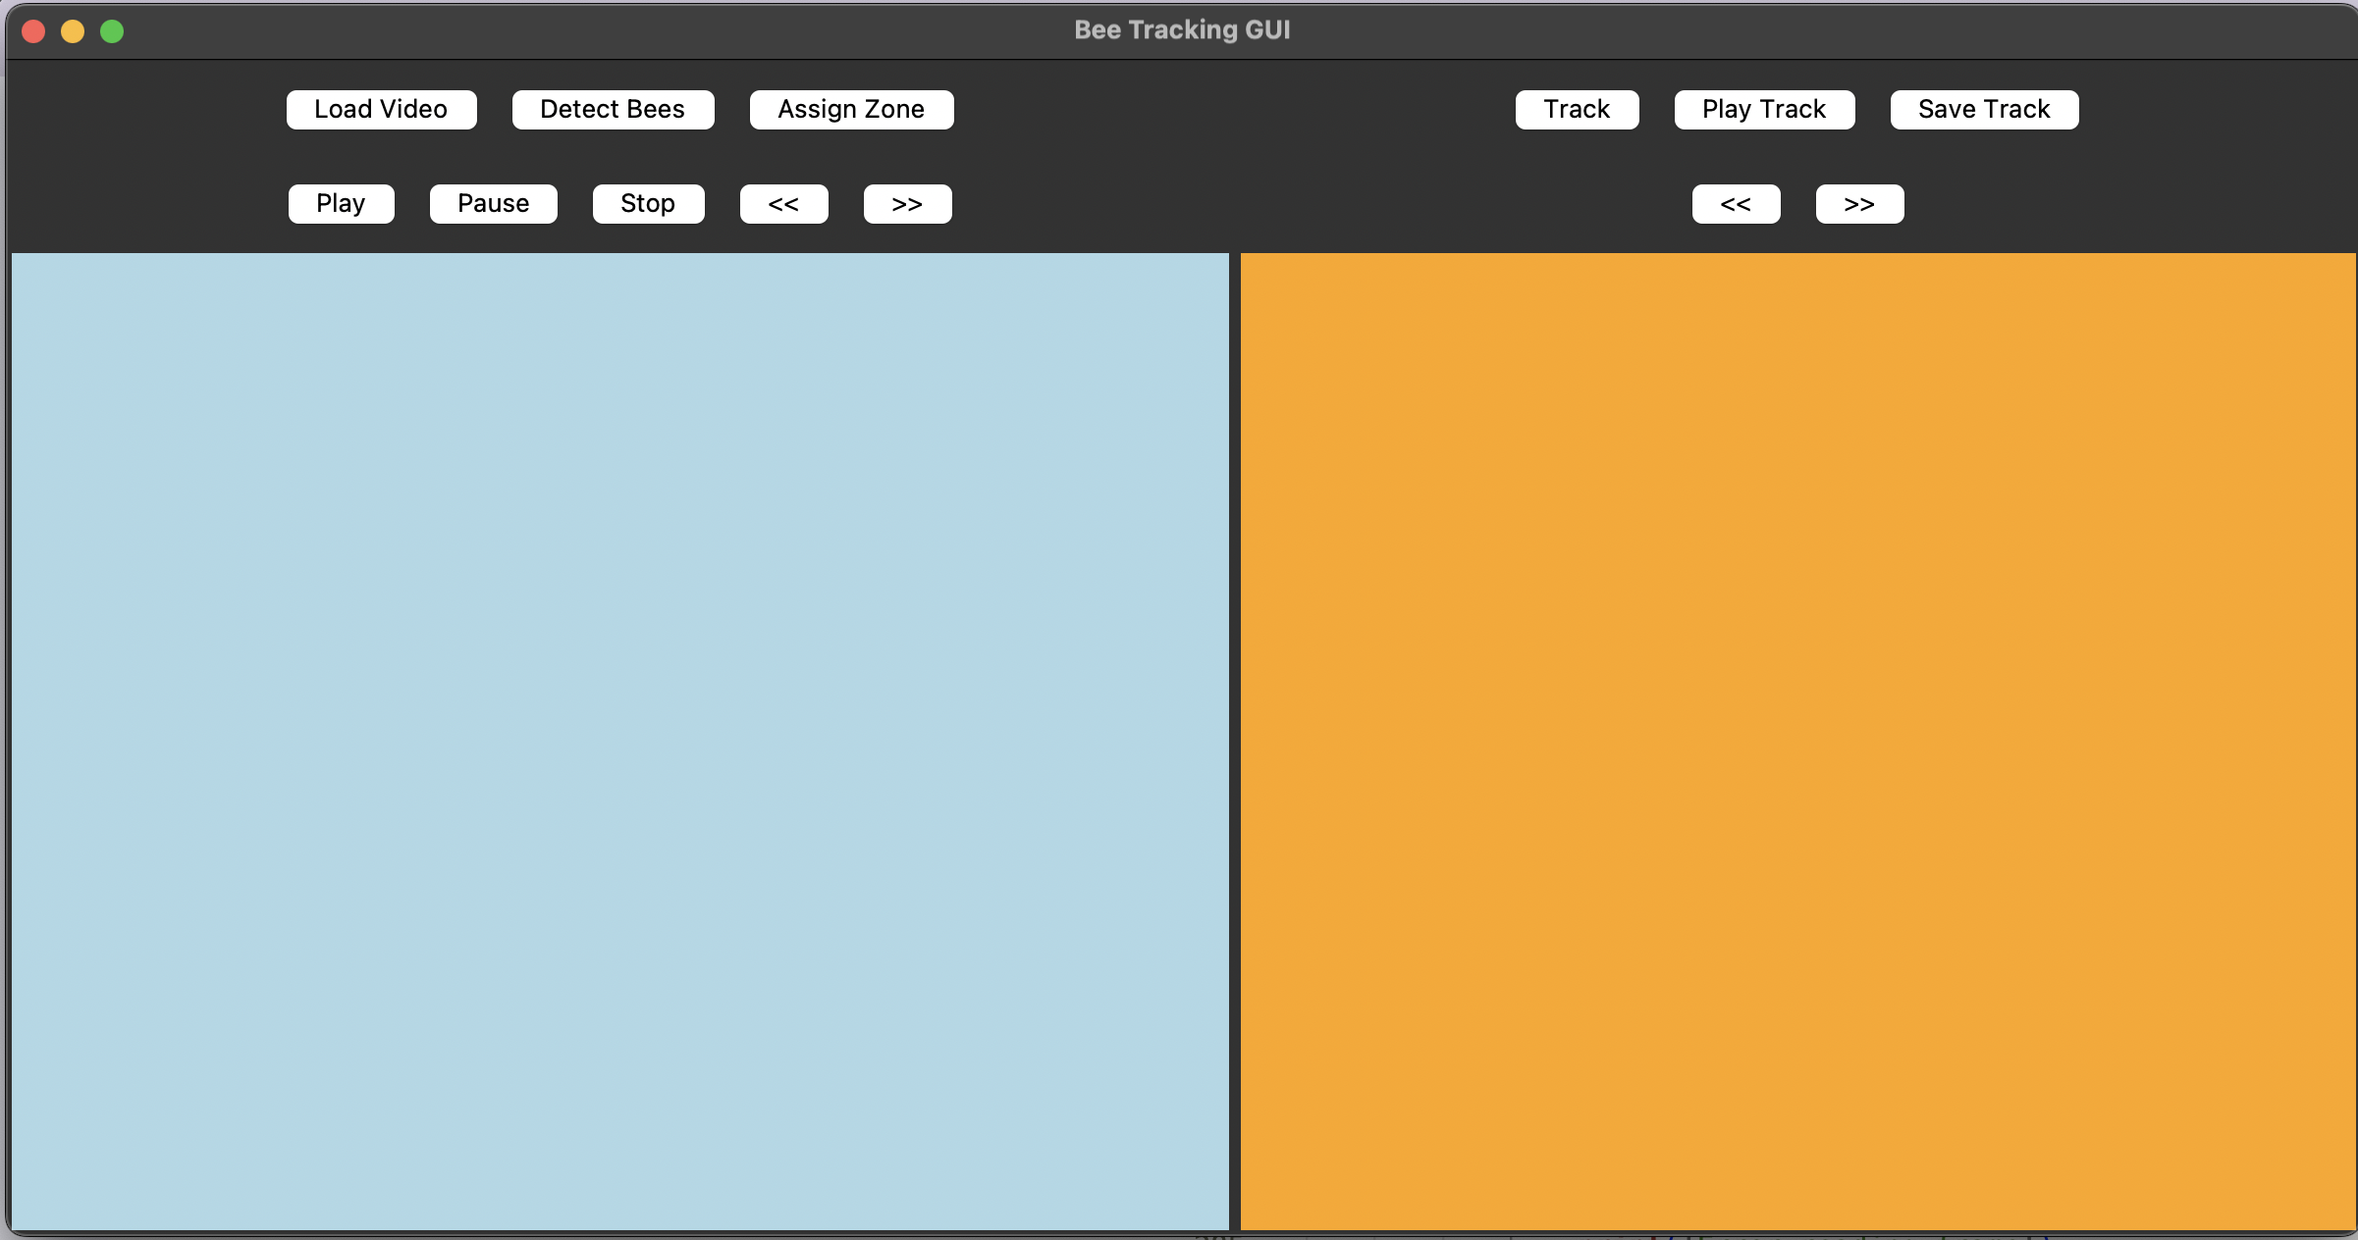
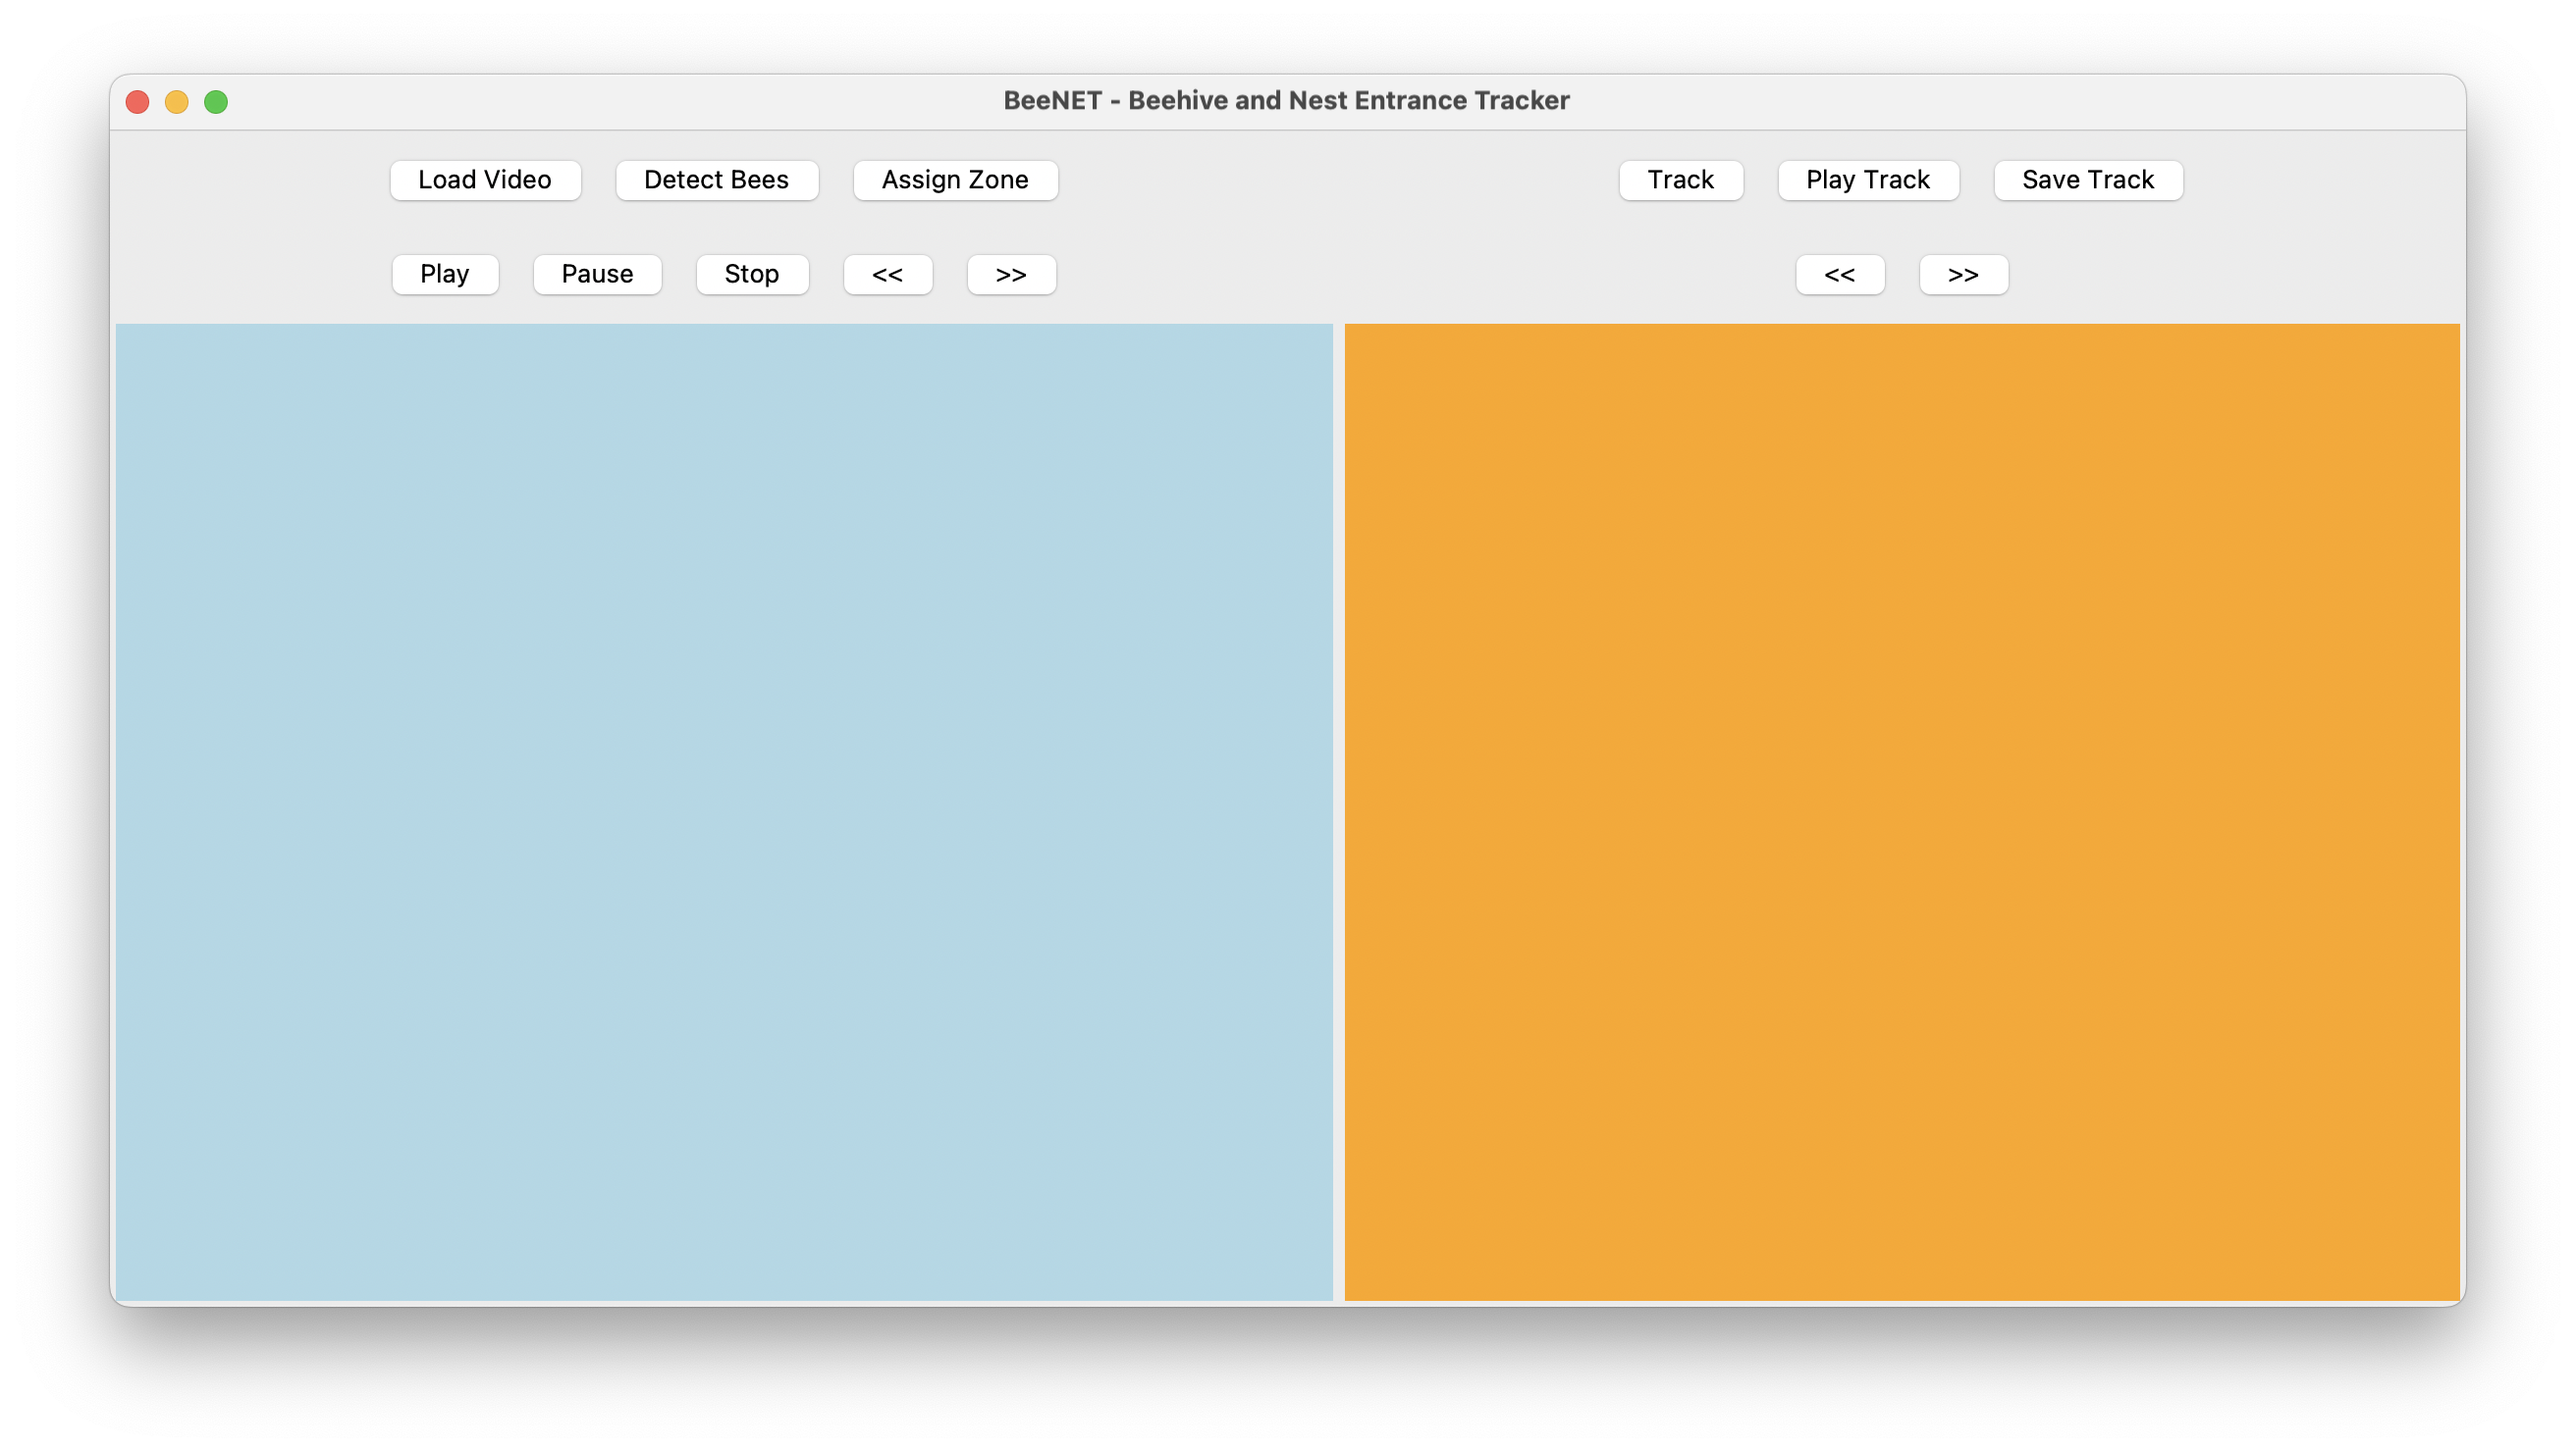
Updating UI names in teh screenshot and in the GUI file

diff --git a/bee_tracker_gui.py b/bee_tracker_gui.py
@@ -18,7 +18,7 @@ from kalman_tracker import KalmanFilterTracker
 class BeeTrackerGUI:
     def __init__(self, root):
         self.root = root
-        self.root.title('Bee Tracking GUI')
+        self.root.title('BeeNET - Beehive and Nest Entrance Tracker')
         self.root.geometry('1200x600')
         self.bee_detector = BeeDetectorYolo('models/stinglessbee-yolov8-s-best.pt', device='mps')
         self.bee_tracker = KalmanFilterTracker()
